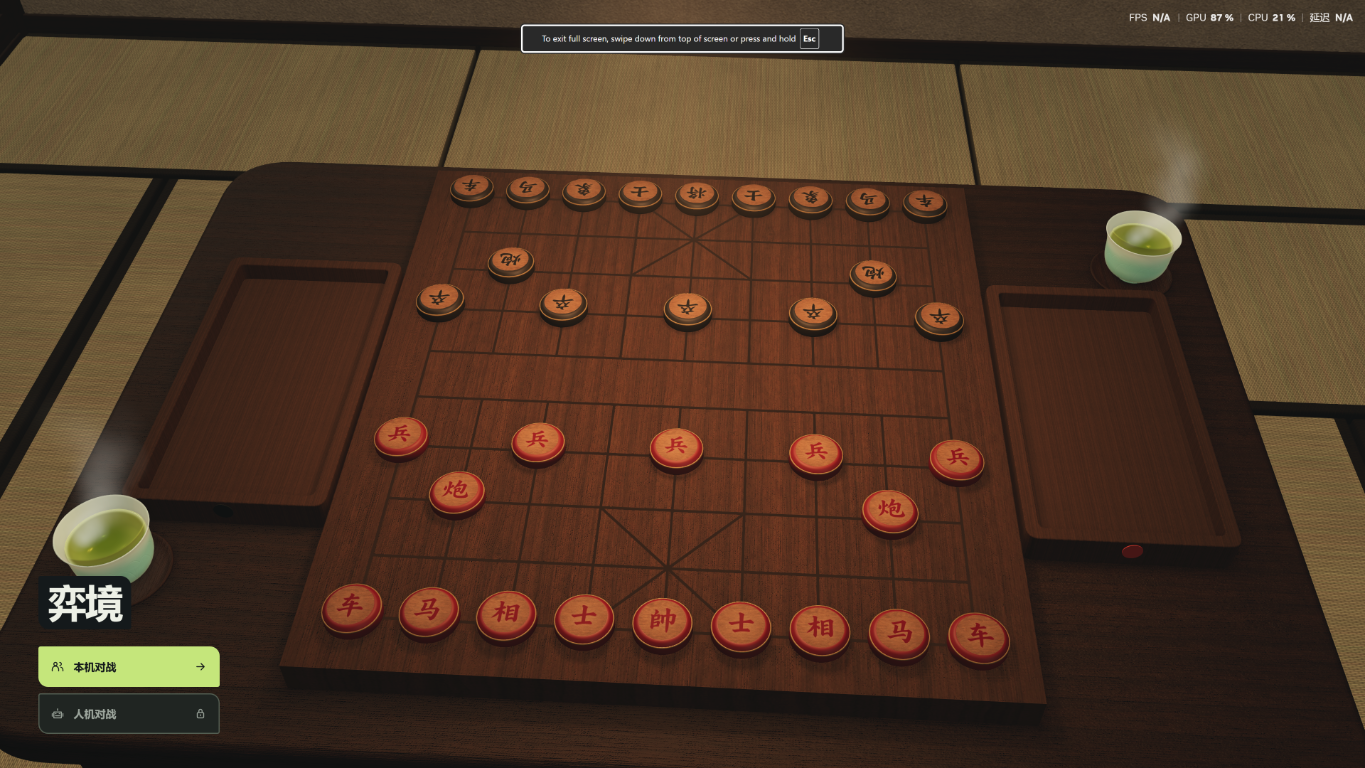
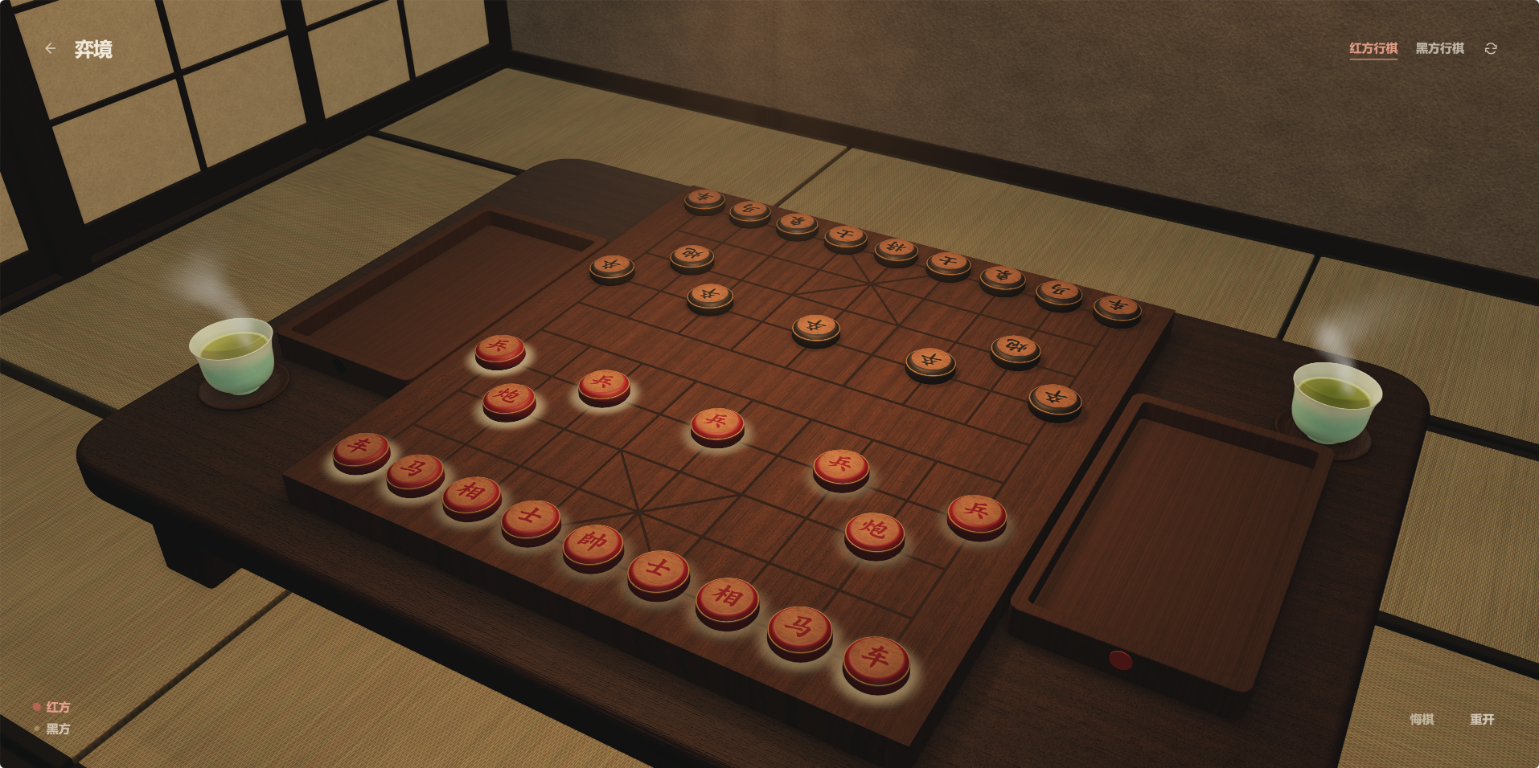
Update HUD title and README screenshot
Use Chinese Chess in the in-game header and replace the README image with the latest supplied screenshot.

diff --git a/index.html b/index.html
@@ -67,7 +67,7 @@
               <path d="m14 5-7 7 7 7M7 12h13" />
             </svg>
           </button>
-          <span class="hud-mark" aria-hidden="true">弈境</span>
+          <span class="hud-mark" aria-hidden="true">中国象棋</span>
         </div>
 
         <div class="hud-turn">
